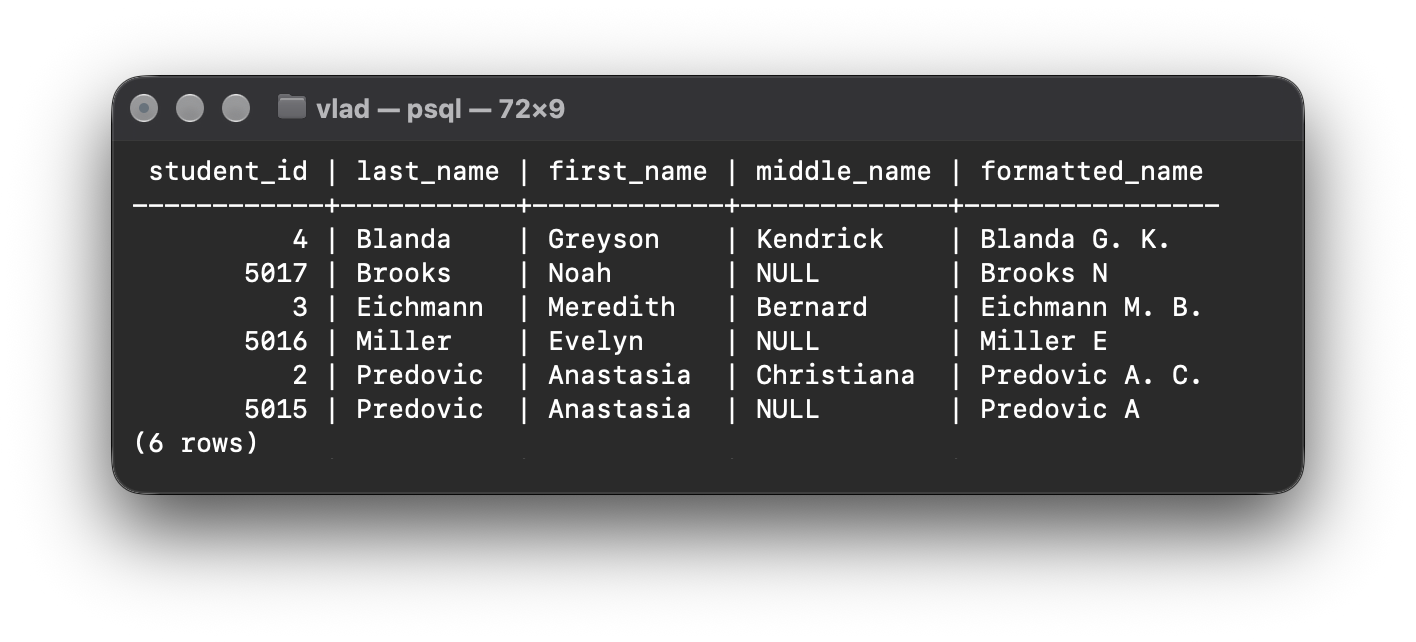
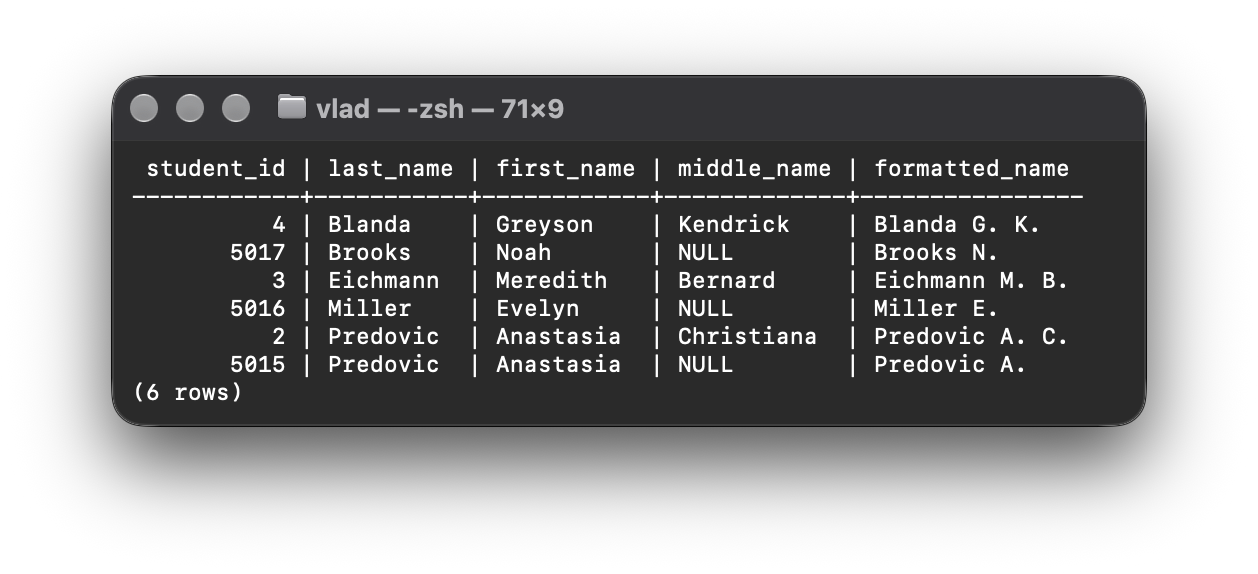
fix(lab5): add a period to the first-name initial

Changed region(s): [[0.062, 0.1185, 0.93, 0.8589]]

diff --git a/report/content/07_lab5_functions.tex b/report/content/07_lab5_functions.tex
@@ -17,7 +17,7 @@
 \end{enumerate}
 
 \subsubsection{Создание функции}
-В таблицах \texttt{student} и \texttt{employee} фамилия, имя и отчество хранятся в отдельных полях. Для формирования краткой записи ФИО создана функция \texttt{format\_full\_name}. Она удаляет пробелы по краям входных значений и при наличии отчества возвращает фамилию и два инициала с точками. Если отчество отсутствует, функция выводит фамилию и инициал имени без точки.
+В таблицах \texttt{student} и \texttt{employee} фамилия, имя и отчество хранятся в отдельных полях. Для формирования краткой записи ФИО создана функция \texttt{format\_full\_name}. Она удаляет пробелы по краям входных значений и при наличии отчества возвращает фамилию и два инициала с точками. Если отчество отсутствует, функция выводит фамилию и инициал имени с точкой.
 
 Исходный текст функции приведён в листинге~\ref{lst:appendix-function}. Для проверки в одну выборку включены три записи с отчеством и три демонстрационные записи, в которых поле \texttt{middle\_name} содержит \texttt{NULL}. Запрос передаёт в функцию значения полей из каждой строки и выводит результат рядом с исходными данными (листинг~\ref{lst:lab5-name}).
 
@@ -51,7 +51,7 @@ ORDER BY last_name, first_name, middle_name NULLS LAST, student_id;
 \end{lstlisting}
 
 \begin{samepage}
-На рисунке~\ref{fig:lab5-name-result} две записи с одинаковыми фамилией и именем \texttt{Predovic Anastasia} расположены рядом. Для записи с отчеством \texttt{Christiana} получено \texttt{Predovic A. C.}, а для записи со значением \texttt{NULL} в поле отчества --- \texttt{Predovic A}.
+На рисунке~\ref{fig:lab5-name-result} для записи \texttt{Brooks Noah} со значением \texttt{NULL} в поле отчества получено \texttt{Brooks N.} Две записи \texttt{Predovic Anastasia} расположены рядом: для записи с отчеством \texttt{Christiana} получено \texttt{Predovic A. C.}, а для записи без отчества --- \texttt{Predovic A.}
 
 \begin{figure}[H]
     \centering

diff --git a/report/content/08_conclusion.tex b/report/content/08_conclusion.tex
@@ -13,6 +13,6 @@
 
 В четвёртой работе на уровне \texttt{READ COMMITTED} было воспроизведено неповторяющееся чтение платежа №125. Транзакция А сначала прочитала сумму 693,88. После того как транзакция Б изменила сумму и выполнила \texttt{COMMIT}, тот же запрос в транзакции А вернул 1000,00.
 
-В пятой работе функция \texttt{format\_full\_name} была проверена на одной выборке из трёх записей с отчеством и трёх без него. Для двух записей \texttt{Predovic Anastasia} функция вернула \texttt{Predovic A. C.} при отчестве \texttt{Christiana} и \texttt{Predovic A} при \texttt{NULL} (рисунок~\ref{fig:lab5-name-result}). Процедура \texttt{register\_settlement} была проверена в трёх сценариях. В обоих сценариях с новым студентом было добавлено одно заселение и один платёж. У существующего студента №2 число заселений выросло с 6 до 7, а число платежей --- с 80 до 81.
+В пятой работе функция \texttt{format\_full\_name} была проверена на одной выборке из трёх записей с отчеством и трёх без него. Для \texttt{Brooks Noah} без отчества получена фамилия с одним инициалом и точкой: \texttt{Brooks N.} (рисунок~\ref{fig:lab5-name-result}). Процедура \texttt{register\_settlement} была проверена в трёх сценариях. В обоих сценариях с новым студентом было добавлено одно заселение и один платёж. У существующего студента №2 число заселений выросло с 6 до 7, а число платежей --- с 80 до 81.
 
 Для работы с PostgreSQL применялся консольный клиент \texttt{psql}. Схема базы данных подготовлена в draw.io, а блок-схема процедуры --- в Graphviz. Отчёт собран средствами LaTeX на компьютере с macOS и процессором архитектуры ARM64.

diff --git a/report/backmatter/appendices.tex b/report/backmatter/appendices.tex
@@ -16,7 +16,7 @@
 
 \lstinputlisting[
     firstline=1,
-    lastline=27,
+    lastline=23,
     caption={Функция \texttt{format\_full\_name}},
     label={lst:appendix-function}
 ]{../queries/lab5_functions/procedure.sql}
@@ -27,7 +27,7 @@
 \addcontentsline{toc}{section}{Приложение Б. Исходный текст процедуры}
 
 \lstinputlisting[
-    firstline=29,
+    firstline=25,
     firstnumber=1,
     caption={Процедура \texttt{register\_settlement}},
     label={lst:appendix-procedure}
